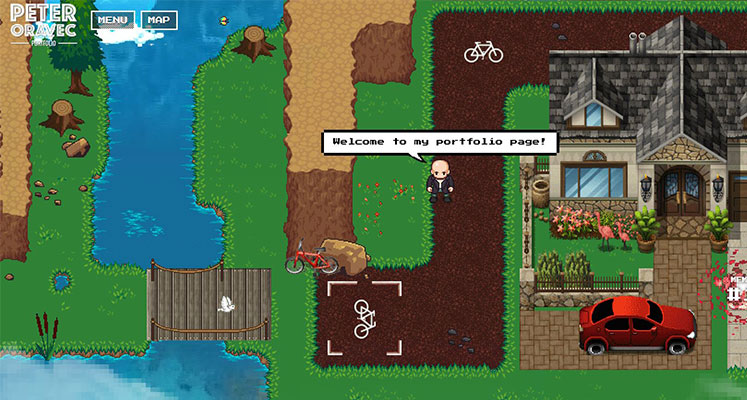
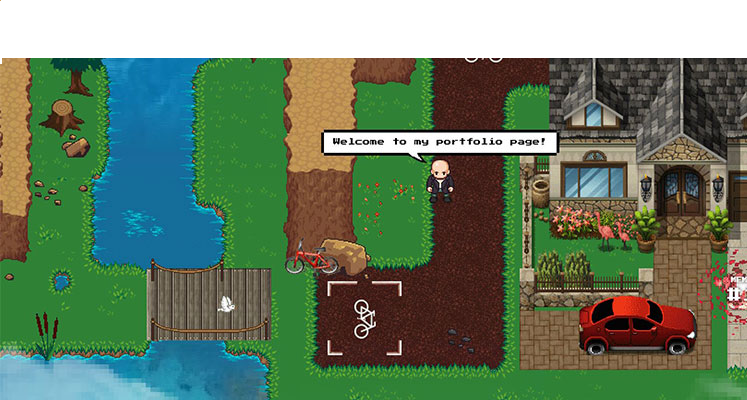
change style portofolio

Changed region(s): [[0.0, 0.0, 1.0, 0.15]]

diff --git a/index.html b/index.html
@@ -6,22 +6,30 @@
     <meta name="viewport" content="width=device-width, initial-scale=1.0">
     <link href="https://cdn.jsdelivr.net/npm/bootstrap@5.2.0-beta1/dist/css/bootstrap.min.css" rel="stylesheet" integrity="sha384-0evHe/X+R7YkIZDRvuzKMRqM+OrBnVFBL6DOitfPri4tjfHxaWutUpFmBp4vmVor" crossorigin="anonymous">
     <link rel="stylesheet" href="./public/style.css">
-    <title>Document</title>
+    <title>My Portofolio</title>
 </head>
 <body>
-    <header class="uno">
-        <img class='imgheader' src="./image/Portfolio-developpeur-web.png" alt="">
-    </header>
-    <main>
-    <section>
-        <div class="title2">
-            <h1>My Portofolio</h1>
-            <h2>Projet réalisé avec Html</h2>
+    <div class="first">
+        <nav>
+            <img src="./image/logo.png" class="mylogo">
+            <ul>
+                <li><a href="">Acceuil</a></li>
+                <li><a href="">à Propos de Moi</a></li>
+                <li><a href="">Portofolio</a></li>
+                <li><a href="">Services</a></li>
+                <li><a href="">Contact</a></li>
+                <li><a href="">CV</a></li>
+            </ul>
+        </nav>
+        <div class="two">
+            <h1>Je suis Wallid<span>Salhi</span></h1>
+            <p>Voici mon Porfolio Officiel</p>
+            <br>
+            <p>Détails et expérience WebDevelopment</p>
+            <a href="">télécharger mon portfolio</a>
         </div>
-    </section>
-    </main>
-    
-    <script src="https://cdn.jsdelivr.net/npm/bootstrap@5.2.0-beta1/dist/js/bootstrap.bundle.min.js" integrity="sha384-pprn3073KE6tl6bjs2QrFaJGz5/SUsLqktiwsUTF55Jfv3qYSDhgCecCxMW52nD2" crossorigin="anonymous"></script>
-
+        <div class="images">
+            <img src="images">
+        </div>
 </body>
 </html>

diff --git a/public/style.css b/public/style.css
@@ -1,20 +1,67 @@
-.uno{
-    background-image: url(../image/Portfolio-developpeur-web.png);
-    background-repeat:no-repeat;
-    background-size: 100% 300%;
+body{
+    margin: 0%;
+    padding: 0%;
+    font-family: sans-serif;
+    color: green;
+}
+.first{
+    position: relative;
+    width: 100%;
+    height: 100vh;
+    background-color: rgb(43, 18, 18);
+}
+nav{
+    display: flex;
+    width: 84%;
+    margin: auto;
+    padding:20px 0;
+    align-items: center;
+    justify-content:space-between;
+}
+nav ul li{
+    display:inline-block;
+    list-style: none;
+    margin:10px 20px;
+
 
 }
-h1 {
-    color:rgb(251, 251, 251);
-    text-align: center;
-    font-style: italic;
+nav ul li a{
+    text-decoration: none;
+    color: white;
     font-weight: bold;
-    font-size: 45px;
 }
-.imgheader{
-    width: 100%;
-    height: 20%
+nav ul li a:hover{
+    text-decoration:red;
 }
-/* .title2{
-     text-align: center;
-} */
+.two{
+    margin-left:8%;
+    margin-top:;
+    margin-bottom: 10%;
+}
+
+.two h1{
+    font-size: 50px;
+    color:orange;
+}
+span{
+    color: orange;
+}
+.two p{
+    color: orange;
+    /* line-height:22px ; */
+}
+.two a{
+    background-color: #212121;
+    padding: 10px 18px;
+    text-decoration: none;
+    font-weight: bold;
+    color: white;
+    display: inline-block;
+    margin: 30px;
+    border-radius: 5px;
+}
+.mylogo{
+    width: 100px;
+    height: 100px;
+    
+}
